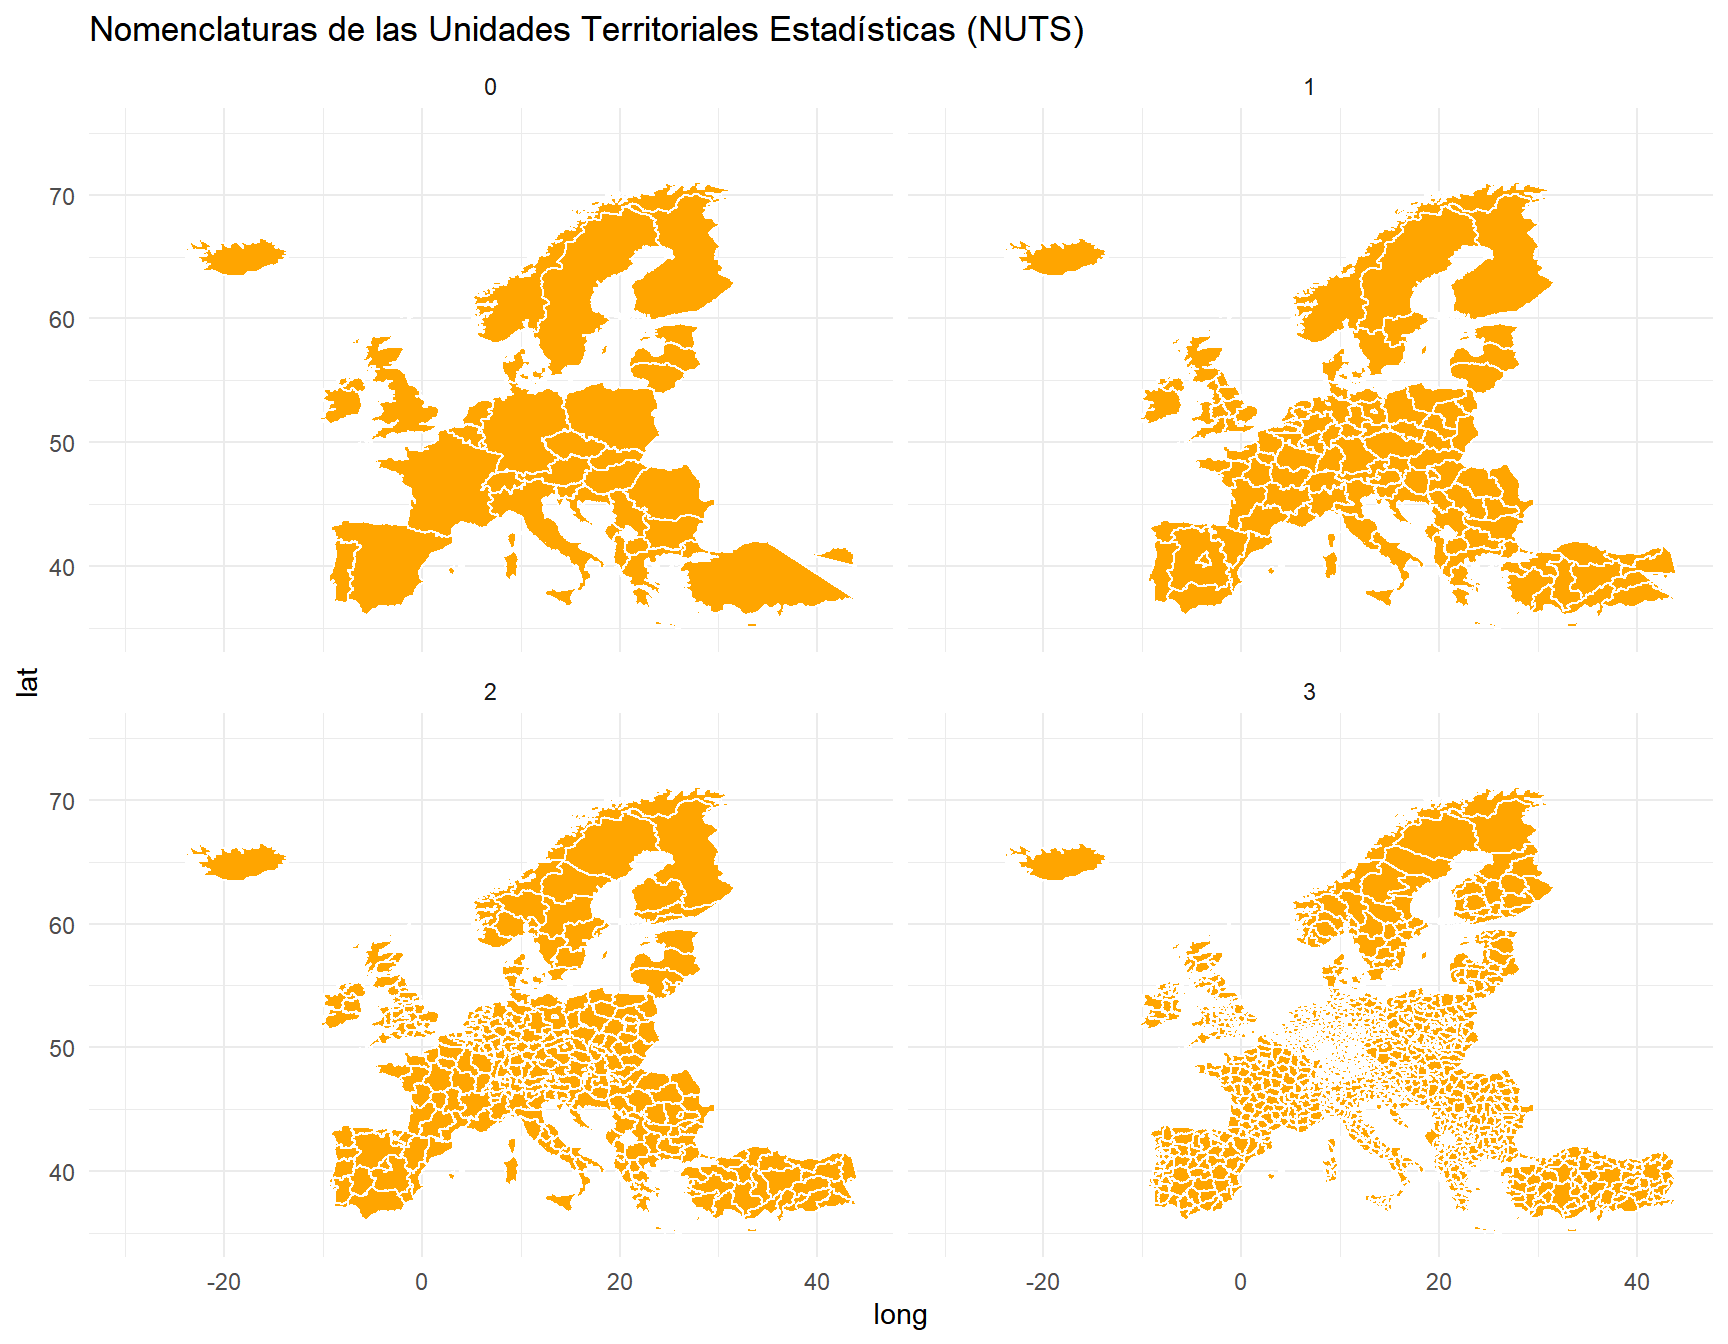
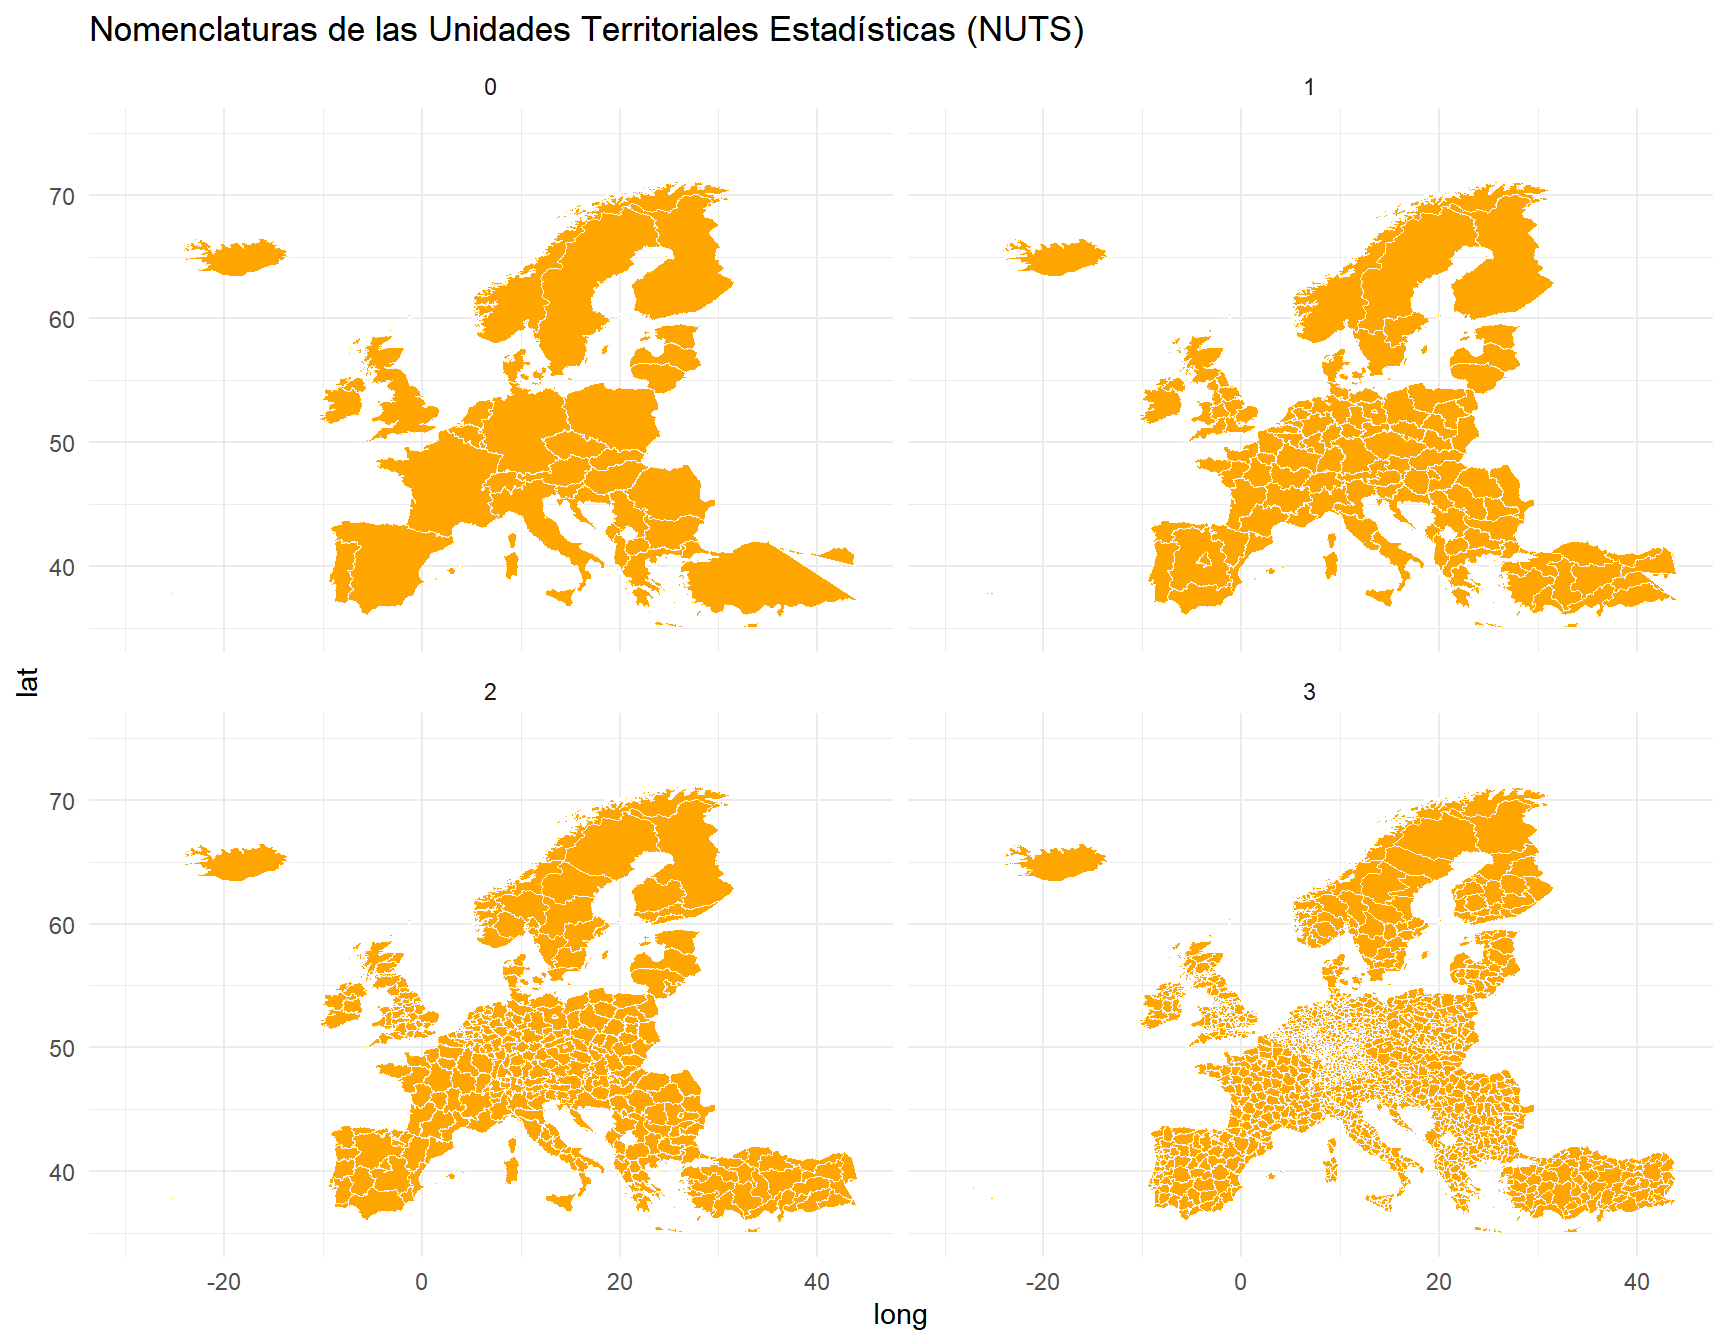
post 14

diff --git a/content/CopyOfformatear_numeros.html b/content/CopyOfformatear_numeros.html
@@ -117,7 +117,7 @@ NUTS_3 &lt;- df_60 %&gt;%
 
 df_60 %&gt;% 
   ggplot(., aes(x=long,y=lat,group=group)) +
-  geom_polygon(fill=&quot;orange&quot;, color=&quot;white&quot;) +
+  geom_polygon(fill=&quot;orange&quot;, color=&quot;white&quot;, size = 0.2) +
   theme_minimal()+
   xlim(c(-30, 44)) +
   ylim(c(35, 75))+ 

diff --git a/public/copyofformatear_numeros/index.html b/public/copyofformatear_numeros/index.html
@@ -201,7 +201,7 @@ NUTS_3 &lt;- df_60 %&gt;%
 
 df_60 %&gt;% 
   ggplot(., aes(x=long,y=lat,group=group)) +
-  geom_polygon(fill=&quot;orange&quot;, color=&quot;white&quot;) +
+  geom_polygon(fill=&quot;orange&quot;, color=&quot;white&quot;, size = 0.2) +
   theme_minimal()+
   xlim(c(-30, 44)) +
   ylim(c(35, 75))+ 
